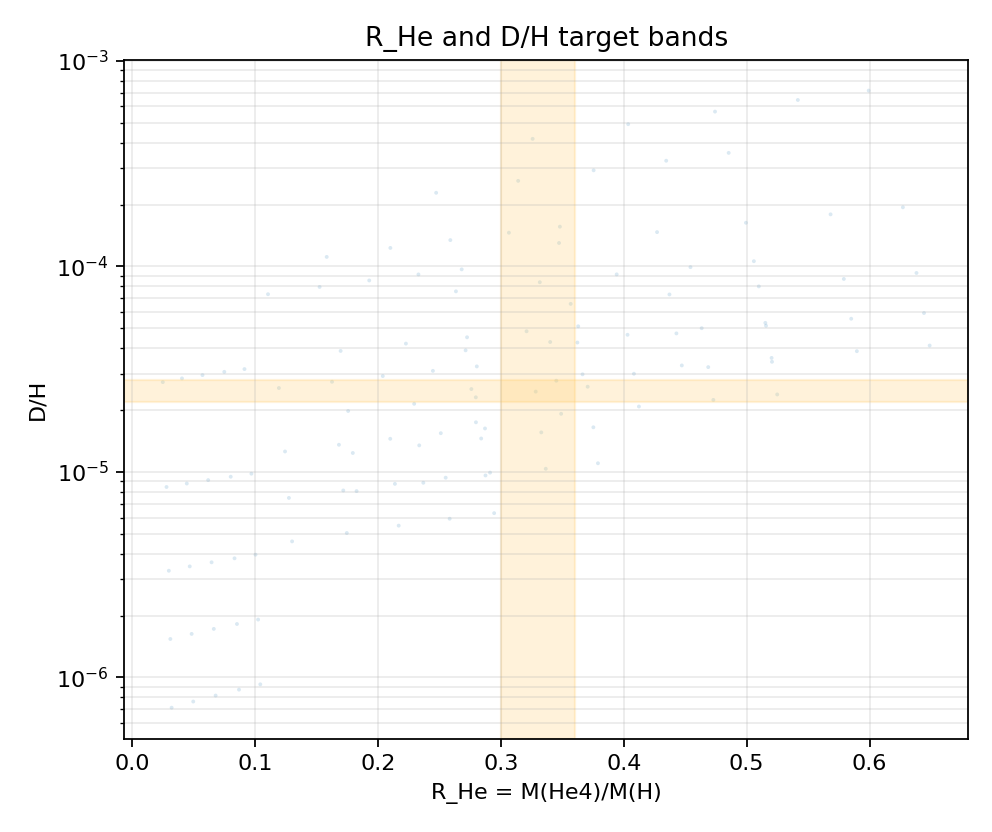
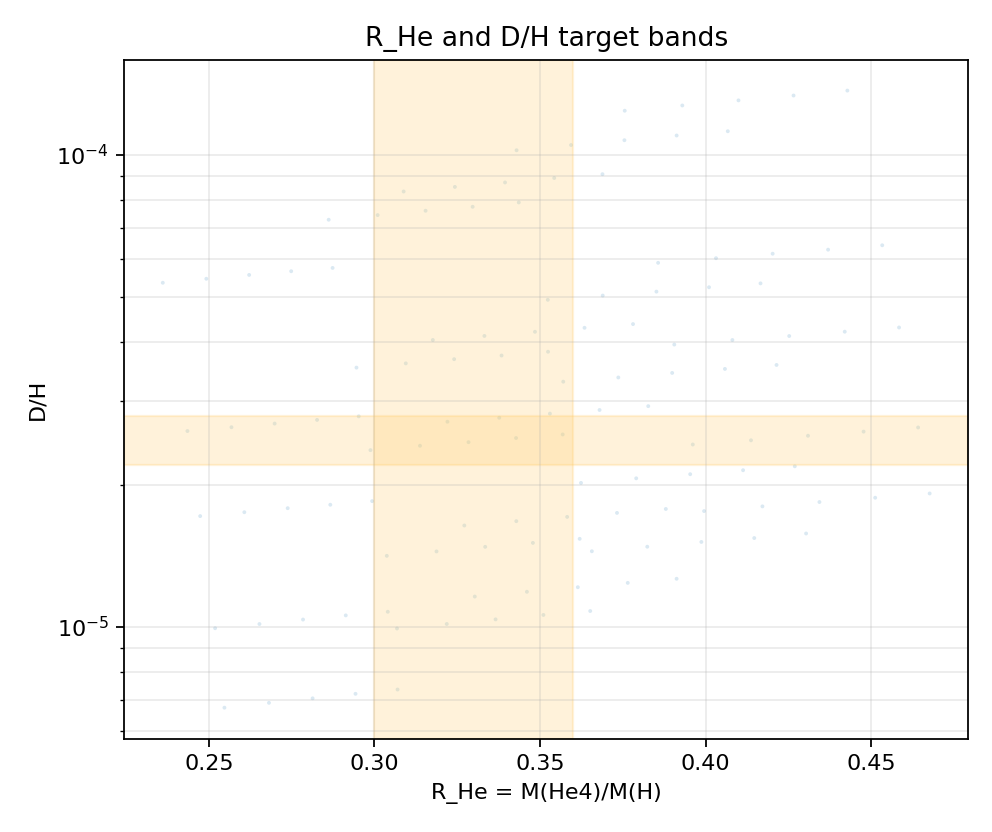
Tighten BBN game slide layout

diff --git a/BirthAndLifeUniverse/bbn-game/css/bbn-game.css b/BirthAndLifeUniverse/bbn-game/css/bbn-game.css
@@ -1,9 +1,9 @@
 .reveal .bbn-game {
   box-sizing: border-box;
   width: min(1160px, 96vw);
-  min-height: 610px;
+  min-height: 560px;
   margin: 0 auto;
-  padding: 28px 32px;
+  padding: 22px 28px;
   color: #f4f7fb;
   background:
     radial-gradient(circle at 18% 12%, rgba(90, 180, 255, 0.16), transparent 34%),
@@ -68,30 +68,30 @@
 .reveal .bbn-title {
   margin: 0;
   color: #ffffff;
-  font-size: 44px;
+  font-size: 40px;
   line-height: 1.05;
   letter-spacing: 0;
 }
 
 .reveal .bbn-subtitle {
   max-width: 980px;
-  margin: 16px 0 22px;
+  margin: 12px 0 16px;
   color: #bdc8d7;
-  font-size: 22px;
-  line-height: 1.3;
+  font-size: 20px;
+  line-height: 1.25;
 }
 
 .reveal .bbn-layout {
   display: grid;
   grid-template-columns: minmax(300px, 0.78fr) minmax(540px, 1.22fr);
-  gap: 24px;
+  gap: 20px;
   align-items: start;
 }
 
 .reveal .bbn-controls,
 .reveal .bbn-results {
   min-width: 0;
-  padding: 20px;
+  padding: 16px;
   background: rgba(8, 14, 22, 0.74);
   border: 1px solid rgba(210, 225, 245, 0.16);
   border-radius: 8px;
@@ -99,7 +99,7 @@
 
 .reveal .bbn-control {
   display: block;
-  margin-bottom: 22px;
+  margin-bottom: 18px;
 }
 
 .reveal .bbn-control-top {
@@ -107,19 +107,19 @@
   align-items: center;
   justify-content: space-between;
   gap: 16px;
-  margin-bottom: 8px;
+  margin-bottom: 6px;
 }
 
 .reveal .bbn-control-label {
   color: #edf4ff;
-  font-size: 20px;
+  font-size: 19px;
   font-weight: 760;
 }
 
 .reveal .bbn-control-value {
   flex: 0 0 auto;
   color: #8bd7ff;
-  font-size: 20px;
+  font-size: 19px;
   font-weight: 760;
   font-variant-numeric: tabular-nums;
 }
@@ -132,18 +132,18 @@
 .reveal .bbn-buttons {
   display: flex;
   flex-wrap: wrap;
-  gap: 10px;
+  gap: 8px;
   margin-top: 2px;
 }
 
 .reveal .bbn-button {
-  min-height: 44px;
-  padding: 0 18px;
+  min-height: 38px;
+  padding: 0 14px;
   color: #f6f8fb;
   background: #273241;
   border: 1px solid rgba(210, 225, 245, 0.22);
   border-radius: 8px;
-  font-size: 17px;
+  font-size: 16px;
   font-weight: 760;
   cursor: pointer;
 }
@@ -175,7 +175,7 @@
 }
 
 .reveal .bbn-scale {
-  margin-bottom: 22px;
+  margin-bottom: 12px;
 }
 
 .reveal .bbn-scale-head {
@@ -183,12 +183,12 @@
   align-items: baseline;
   justify-content: space-between;
   gap: 18px;
-  margin-bottom: 10px;
+  margin-bottom: 6px;
 }
 
 .reveal .bbn-scale-title {
   color: #f5f8fc;
-  font-size: 22px;
+  font-size: 20px;
   font-weight: 800;
 }
 
@@ -200,7 +200,7 @@
 
 .reveal .bbn-scale-track {
   position: relative;
-  height: 48px;
+  height: 40px;
 }
 
 .reveal .bbn-scale-track::before {
@@ -208,16 +208,16 @@
   position: absolute;
   left: 0;
   right: 0;
-  top: 17px;
-  height: 14px;
+  top: 14px;
+  height: 12px;
   background: linear-gradient(90deg, #334052, #465365);
   border-radius: 8px;
 }
 
 .reveal .bbn-target-band {
   position: absolute;
-  top: 11px;
-  height: 26px;
+  top: 9px;
+  height: 22px;
   background: rgba(255, 210, 103, 0.62);
   border-left: 2px solid #ffe29b;
   border-right: 2px solid #ffe29b;
@@ -226,9 +226,9 @@
 
 .reveal .bbn-marker {
   position: absolute;
-  top: 4px;
+  top: 3px;
   width: 4px;
-  height: 40px;
+  height: 34px;
   transform: translateX(-50%);
   background: #ff8c67;
   border-radius: 3px;
@@ -242,10 +242,10 @@
 
 .reveal .bbn-marker-label {
   position: absolute;
-  top: 40px;
+  top: 33px;
   transform: translateX(-50%);
   color: #dce9f8;
-  font-size: 15px;
+  font-size: 14px;
   font-weight: 780;
   white-space: nowrap;
   font-variant-numeric: tabular-nums;
@@ -253,7 +253,7 @@
 
 .reveal .bbn-verdict {
   margin-top: 4px;
-  padding: 16px 18px;
+  padding: 12px 15px;
   border-left: 5px solid #ff8c67;
   border-radius: 8px;
   background: rgba(255, 255, 255, 0.055);
@@ -263,7 +263,7 @@
   display: flex;
   justify-content: flex-end;
   gap: 18px;
-  margin-top: 12px;
+  margin-top: 8px;
   color: #aab8c8;
   font-size: 14px;
   font-weight: 700;
@@ -286,7 +286,7 @@
 .reveal .bbn-error-title {
   display: block;
   color: #ffffff;
-  font-size: 26px;
+  font-size: 23px;
   line-height: 1.1;
   font-weight: 860;
 }
